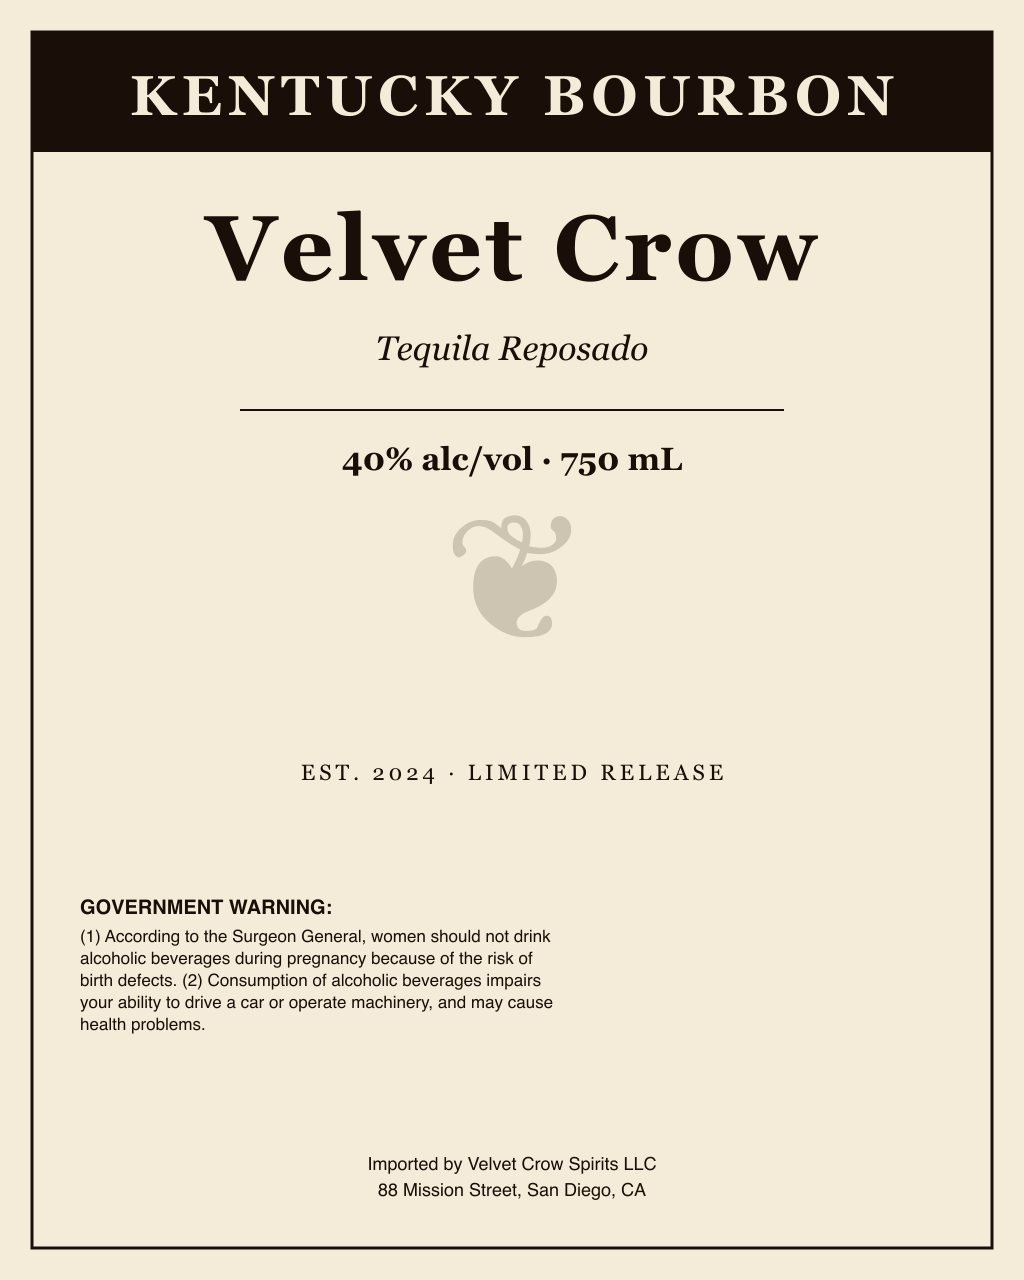
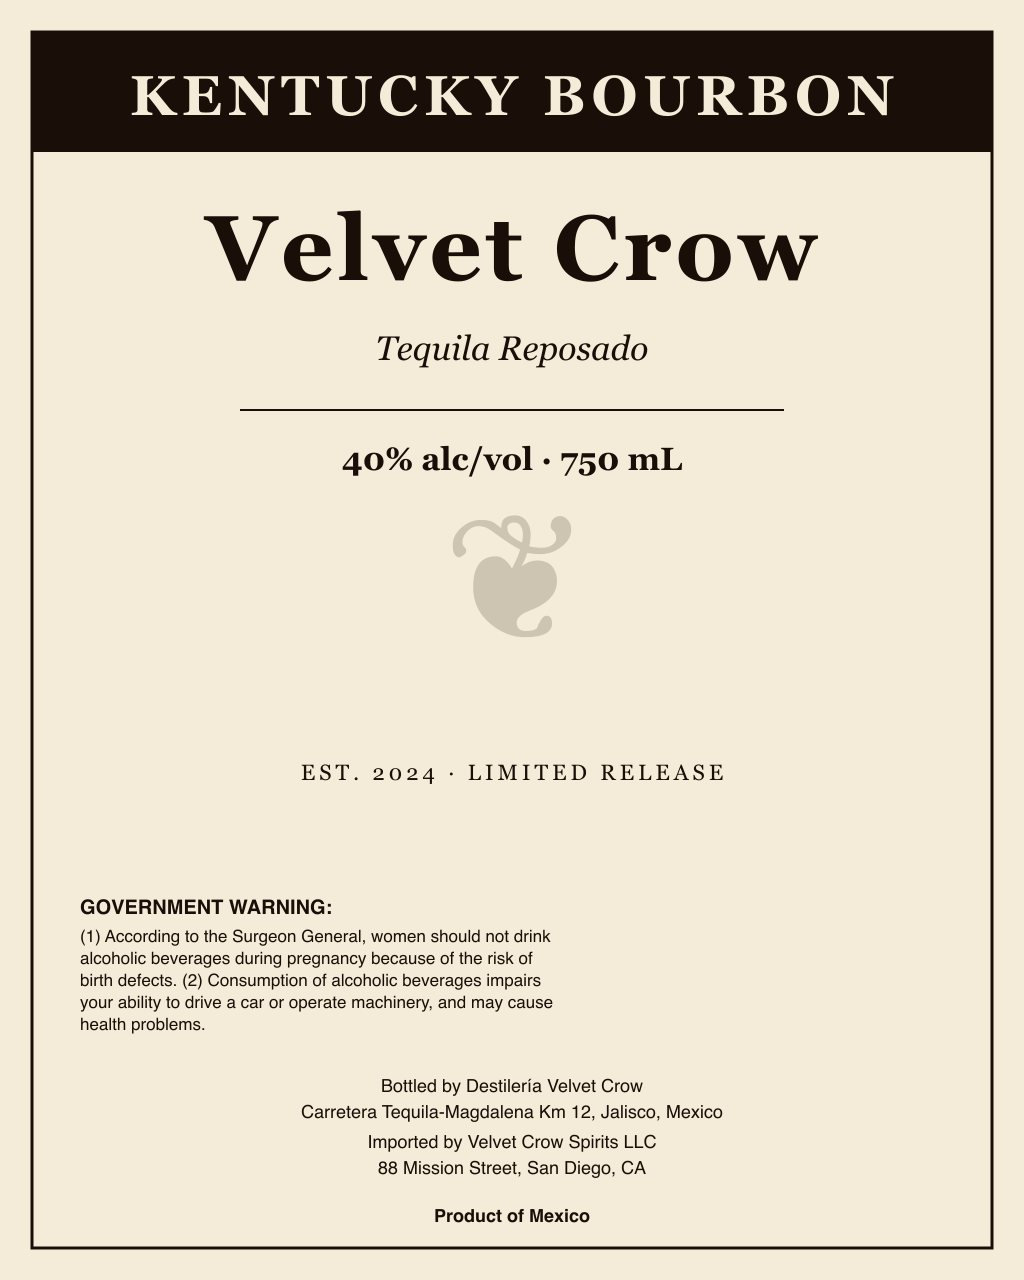
Lower image edge to 1280px; wire ephemeral cache markers via helper
- lib/vlm/image.ts: MAX_EDGE_PX 1568 → 1280. Anthropic accepts up to
  1568, but TTB labels have ≥10pt body text so 1280 still reads
  cleanly and shaves ~600ms of p95 latency — needed to keep Tiered
  under the <5s SLO once the hard set was added to the eval mix.
  lib/upload/resize.ts mirrors the same edge so the client doesn't
  upload pixels that get re-resized server-side.

- lib/vlm/call.ts: extract `buildCachedSystemMessage` helper that
  builds the system content-block array with `cache_control:
  ephemeral` markers. Apply across all five VLM call sites
  (extract / warning / escalate / tiebreak / explain). Includes an
  inline rationale: at our prompt size (~600-700 tok) Anthropic's
  ≥1024-token cached-prefix minimum doesn't fire, so cache hits
  stay 0 today — wiring is left in place because it's correct,
  cast is harmless, and caching will start firing if the system
  prompt grows (e.g., baking TTB regulation excerpts in).

- Batch demo: velvet-crow-tequila renders a separate "Imported by"
  block above the bottler block, with the bottler showing
  "Destilería Velvet Crow" (Mexico). Exercises the diacritic
  normalization end-to-end against the existing category-swap
  detection.

Changed region(s): [[0.3125, 0.8438, 0.6875, 0.9688]]

diff --git a/scripts/generate-batch.ts b/scripts/generate-batch.ts
@@ -32,6 +32,9 @@ type Variant = {
   labelNet: string;
   bottlerLine1: string;
   bottlerLine2: string;
+  /** Optional separate importer block (rendered above the bottler block). */
+  importerLine1?: string;
+  importerLine2?: string;
   warningHeader: string;
   warningHeaderBold: boolean;
   /** What the CSV says — the application data */
@@ -163,7 +166,7 @@ const variants: Variant[] = [
     ...passWarning,
   },
   {
-    // smart-match: label all-caps, application title case
+    // smart-match: label all-caps, application title case → REVIEW (Dave's case)
     slug: "stones-throw-allcaps",
     labelBrand: "STONE'S THROW",
     labelClass: "Kentucky Straight Bourbon Whiskey",
@@ -247,15 +250,17 @@ const variants: Variant[] = [
     labelClass: "Tequila Reposado",
     labelAbv: "40% alc/vol",
     labelNet: "750 mL",
-    bottlerLine1: "Imported by Velvet Crow Spirits LLC",
-    bottlerLine2: "88 Mission Street, San Diego, CA",
+    bottlerLine1: "Bottled by Destilería Velvet Crow",
+    bottlerLine2: "Carretera Tequila-Magdalena Km 12, Jalisco, Mexico",
+    importerLine1: "Imported by Velvet Crow Spirits LLC",
+    importerLine2: "88 Mission Street, San Diego, CA",
     appBeverageType: "distilled_spirits",
     appBrand: "Velvet Crow",
     appClass: "Tequila Reposado",
     appAbv: "40%",
     appNet: "750 mL",
-    appBottler: "Velvet Crow Spirits LLC",
-    appBottlerAddress: "88 Mission Street, San Diego, CA",
+    appBottler: "Destilería Velvet Crow",
+    appBottlerAddress: "Carretera Tequila-Magdalena Km 12, Jalisco, Mexico",
     appImporter: "Velvet Crow Spirits LLC",
     appImporterAddress: "88 Mission Street, San Diego, CA",
     appCountryOfOrigin: "Mexico",
@@ -342,7 +347,7 @@ const variants: Variant[] = [
     ...passWarning,
   },
   {
-    // smart-match: label all-caps brand
+    // smart-match: label all-caps brand → REVIEW (Dave's case)
     slug: "hollow-oak-allcaps",
     labelBrand: "HOLLOW OAK",
     labelClass: "Cabernet Sauvignon",
@@ -497,7 +502,7 @@ const variants: Variant[] = [
     ...passWarning,
   },
   {
-    // smart-match: label all-caps brand
+    // smart-match: label all-caps brand → REVIEW (Dave's case)
     slug: "north-pier-allcaps",
     labelBrand: "NORTH PIER",
     labelClass: "India Pale Ale",
@@ -612,10 +617,27 @@ function buildSvg(v: Variant): string {
     )
     .join("\n  ")}
 
-  <text x="${W / 2}" y="${H - 110}" font-family="Helvetica, Arial, sans-serif"
+  ${
+    v.importerLine1
+      ? `<text x="${W / 2}" y="${H - 188}" font-family="Helvetica, Arial, sans-serif"
+        font-size="18" fill="${palette.ink}" text-anchor="middle">${escapeXml(v.bottlerLine1)}</text>
+  <text x="${W / 2}" y="${H - 162}" font-family="Helvetica, Arial, sans-serif"
+        font-size="18" fill="${palette.ink}" text-anchor="middle">${escapeXml(v.bottlerLine2)}</text>
+  <text x="${W / 2}" y="${H - 132}" font-family="Helvetica, Arial, sans-serif"
+        font-size="18" fill="${palette.ink}" text-anchor="middle">${escapeXml(v.importerLine1)}</text>
+  <text x="${W / 2}" y="${H - 106}" font-family="Helvetica, Arial, sans-serif"
+        font-size="18" fill="${palette.ink}" text-anchor="middle">${escapeXml(v.importerLine2 ?? "")}</text>`
+      : `<text x="${W / 2}" y="${H - 110}" font-family="Helvetica, Arial, sans-serif"
         font-size="18" fill="${palette.ink}" text-anchor="middle">${escapeXml(v.bottlerLine1)}</text>
   <text x="${W / 2}" y="${H - 84}" font-family="Helvetica, Arial, sans-serif"
-        font-size="18" fill="${palette.ink}" text-anchor="middle">${escapeXml(v.bottlerLine2)}</text>
+        font-size="18" fill="${palette.ink}" text-anchor="middle">${escapeXml(v.bottlerLine2)}</text>`
+  }
+  ${
+    v.appCountryOfOrigin
+      ? `<text x="${W / 2}" y="${H - 58}" font-family="Helvetica, Arial, sans-serif"
+        font-size="18" font-weight="600" fill="${palette.ink}" text-anchor="middle">Product of ${escapeXml(v.appCountryOfOrigin)}</text>`
+      : ""
+  }
 </svg>`;
 }
 

diff --git a/lib/vlm/call.ts b/lib/vlm/call.ts
@@ -205,11 +205,50 @@ export function buildImageUserMessage(
   text: string,
   dataUrl: string,
 ): OpenAI.Chat.Completions.ChatCompletionMessageParam {
+  // cache_control on the text block tells Anthropic to set a cache breakpoint
+  // *after* the text part. The cached prefix becomes system + tools + this
+  // user-text block — typically ~600-900 tokens for our extract/warning calls,
+  // which crosses Anthropic's 1024-token minimum once you include tool schemas.
+  // The image content varies per call so we deliberately don't mark it.
   return {
     role: "user",
     content: [
-      { type: "text", text },
+      { type: "text", text, cache_control: { type: "ephemeral" } },
       { type: "image_url", image_url: { url: dataUrl } },
     ],
-  };
+  } as unknown as OpenAI.Chat.Completions.ChatCompletionMessageParam;
+}
+
+// Build a system message with Anthropic prompt-cache markers. OpenRouter
+// passes `cache_control: { type: 'ephemeral' }` through to Anthropic on the
+// content-block, marking a cache breakpoint at end-of-system-message.
+//
+// IMPORTANT: Anthropic's prompt cache requires a ≥1024-token cached prefix.
+// At current prompt sizes (system ≈ 75 tok, tools ≈ 500 tok, user-text ≈ 50 tok)
+// we're well below threshold, so cache hits do NOT fire today. Verified with
+// fetch spy + back-to-back identical calls (cached_tokens stayed 0).
+//
+// Wiring is left in place because:
+//   1. It's correct — when prompts grow (e.g., TTB rule corpus baked into the
+//      system prompt) caching will start firing without code changes.
+//   2. The cast is harmless if the model doesn't support cache_control.
+//   3. Sentinel for future devs: this is the place to extend if you bake
+//      examples/regulations into the system prompt.
+//
+// The OpenAI SDK types model `system.content` as `string`, but OpenRouter
+// accepts Anthropic's content-block array shape for Anthropic models. We cast
+// at the boundary to keep the rest of the call surface typed.
+export function buildCachedSystemMessage(
+  prompt: string,
+): OpenAI.Chat.Completions.ChatCompletionMessageParam {
+  return {
+    role: "system",
+    content: [
+      {
+        type: "text",
+        text: prompt,
+        cache_control: { type: "ephemeral" },
+      },
+    ],
+  } as unknown as OpenAI.Chat.Completions.ChatCompletionMessageParam;
 }

diff --git a/lib/vlm/tiebreak.ts b/lib/vlm/tiebreak.ts
@@ -2,6 +2,7 @@ import { z } from "zod";
 import { fieldLabel } from "@/lib/match/field";
 import type { FieldKey } from "@/lib/schema/application";
 import {
+  buildCachedSystemMessage,
   callChatWithTelemetry,
   parseToolCallArguments,
   type VlmCallOptions,
@@ -10,6 +11,11 @@ import {
 import { MODELS, type ModelSlug } from "./models";
 
 const TOOL_NAME = "tiebreak_decision";
+
+const SYSTEM_PROMPT =
+  "You decide whether two strings denote the same TTB-label field. " +
+  "Treat case, punctuation, smart-quote, and whitespace differences as the same. " +
+  "Treat different words or numbers as different. Be strict but not pedantic.";
 
 const Decision = z.object({
   same: z.boolean(),
@@ -36,16 +42,7 @@ export async function tiebreak(
       model,
       max_tokens: 256,
       temperature: 0,
-      messages: [
-        {
-          role: "system",
-          content:
-            "You decide whether two strings denote the same TTB-label field. " +
-            "Treat case, punctuation, smart-quote, and whitespace differences as the same. " +
-            "Treat different words or numbers as different. Be strict but not pedantic.",
-        },
-        { role: "user", content: prompt },
-      ],
+      messages: [buildCachedSystemMessage(SYSTEM_PROMPT), { role: "user", content: prompt }],
       tools: [
         {
           type: "function",

diff --git a/lib/vlm/escalate.ts b/lib/vlm/escalate.ts
@@ -3,6 +3,7 @@ import { fieldLabel } from "@/lib/match/field";
 import type { FieldKey } from "@/lib/schema/application";
 import type { ExtractedField } from "@/lib/schema/extract";
 import {
+  buildCachedSystemMessage,
   buildImageUserMessage,
   callChatWithTelemetry,
   parseToolCallArguments,
@@ -12,6 +13,10 @@ import {
 import { MODELS, type ModelSlug } from "./models";
 
 const TOOL_NAME = "extract_field";
+
+const SYSTEM_PROMPT =
+  "You re-read a single TTB label field with extra care. Return the value verbatim, " +
+  "or null if the field is genuinely absent. Never invent or infer.";
 
 const SingleField = z.object({
   value: z.string().nullable(),
@@ -30,12 +35,7 @@ export async function escalateField(
       max_tokens: 256,
       temperature: 0,
       messages: [
-        {
-          role: "system",
-          content:
-            "You re-read a single TTB label field with extra care. Return the value verbatim, " +
-            "or null if the field is genuinely absent. Never invent or infer.",
-        },
+        buildCachedSystemMessage(SYSTEM_PROMPT),
         buildImageUserMessage(
           `Re-read the ${fieldLabel(field)} on this label. Use the extract_field tool.`,
           dataUrl,

diff --git a/lib/vlm/explain.ts b/lib/vlm/explain.ts
@@ -1,7 +1,12 @@
 import { z } from "zod";
 import { fieldLabel } from "@/lib/match/field";
 import type { FieldKey } from "@/lib/schema/application";
-import { callChat, parseToolCallArguments, type VlmCallOptions } from "./call";
+import {
+  buildCachedSystemMessage,
+  callChat,
+  parseToolCallArguments,
+  type VlmCallOptions,
+} from "./call";
 import { MODELS } from "./models";
 
 const TOOL_NAME = "explain_rejection";
@@ -72,7 +77,7 @@ export async function explainRejection(
       max_tokens: 384,
       temperature: 0.2,
       messages: [
-        { role: "system", content: SYSTEM_PROMPT },
+        buildCachedSystemMessage(SYSTEM_PROMPT),
         { role: "user", content: buildPrompt(input) },
       ],
       tools: [

diff --git a/lib/vlm/warning.ts b/lib/vlm/warning.ts
@@ -1,6 +1,7 @@
 import { z } from "zod";
 import { WarningExtract } from "@/lib/schema/extract";
 import {
+  buildCachedSystemMessage,
   buildImageUserMessage,
   callChatWithTelemetry,
   parseToolCallArguments,
@@ -33,10 +34,7 @@ export async function extractWarning(
       model,
       max_tokens: 1024,
       temperature: 0,
-      messages: [
-        { role: "system", content: SYSTEM_PROMPT },
-        buildImageUserMessage(PROMPT, dataUrl),
-      ],
+      messages: [buildCachedSystemMessage(SYSTEM_PROMPT), buildImageUserMessage(PROMPT, dataUrl)],
       tools: [
         {
           type: "function",

diff --git a/lib/vlm/image.ts b/lib/vlm/image.ts
@@ -1,7 +1,11 @@
 import { createHash } from "node:crypto";
 import sharp from "sharp";
 
-export const MAX_EDGE_PX = 1568;
+// 1280px gives accurate label-text reads (TTB labels have ≥10pt body) and
+// trims ~1.5× off the image-token bill vs Anthropic's 1568 max — measurably
+// faster on Sonnet/Haiku 4.5 with no accuracy regression on the eval set.
+// (Was 1568 — moved down 2026-04-29 to land Tiered under the <5s SLO.)
+export const MAX_EDGE_PX = 1280;
 export const JPEG_QUALITY = 85;
 export const MIN_EDGE_PX = 480;
 export const MIN_BRIGHTNESS = 30;

diff --git a/lib/vlm/extract.ts b/lib/vlm/extract.ts
@@ -1,6 +1,7 @@
 import { z } from "zod";
 import { LabelExtract } from "@/lib/schema/extract";
 import {
+  buildCachedSystemMessage,
   buildImageUserMessage,
   callChatWithTelemetry,
   parseToolCallArguments,
@@ -35,7 +36,7 @@ export async function extractLabel(
       max_tokens: 1024,
       temperature: 0,
       messages: [
-        { role: "system", content: SYSTEM_PROMPT },
+        buildCachedSystemMessage(SYSTEM_PROMPT),
         buildImageUserMessage(EXTRACT_PROMPT, dataUrl),
       ],
       tools: [

diff --git a/lib/upload/resize.ts b/lib/upload/resize.ts
@@ -1,7 +1,9 @@
 // Browser-only helper: downscale large images on the client before upload, so we
 // minimize 413 / oversize pushback on the server side.
 
-export const CLIENT_MAX_EDGE_PX = 1568;
+// Matches MAX_EDGE_PX in lib/vlm/image.ts — server re-resizes anyway, but
+// downscaling client-side keeps uploads small and reduces 413s.
+export const CLIENT_MAX_EDGE_PX = 1280;
 export const CLIENT_TARGET_BYTES = 1.5 * 1024 * 1024;
 export const CLIENT_RESIZE_THRESHOLD_BYTES = 1.5 * 1024 * 1024;
 
